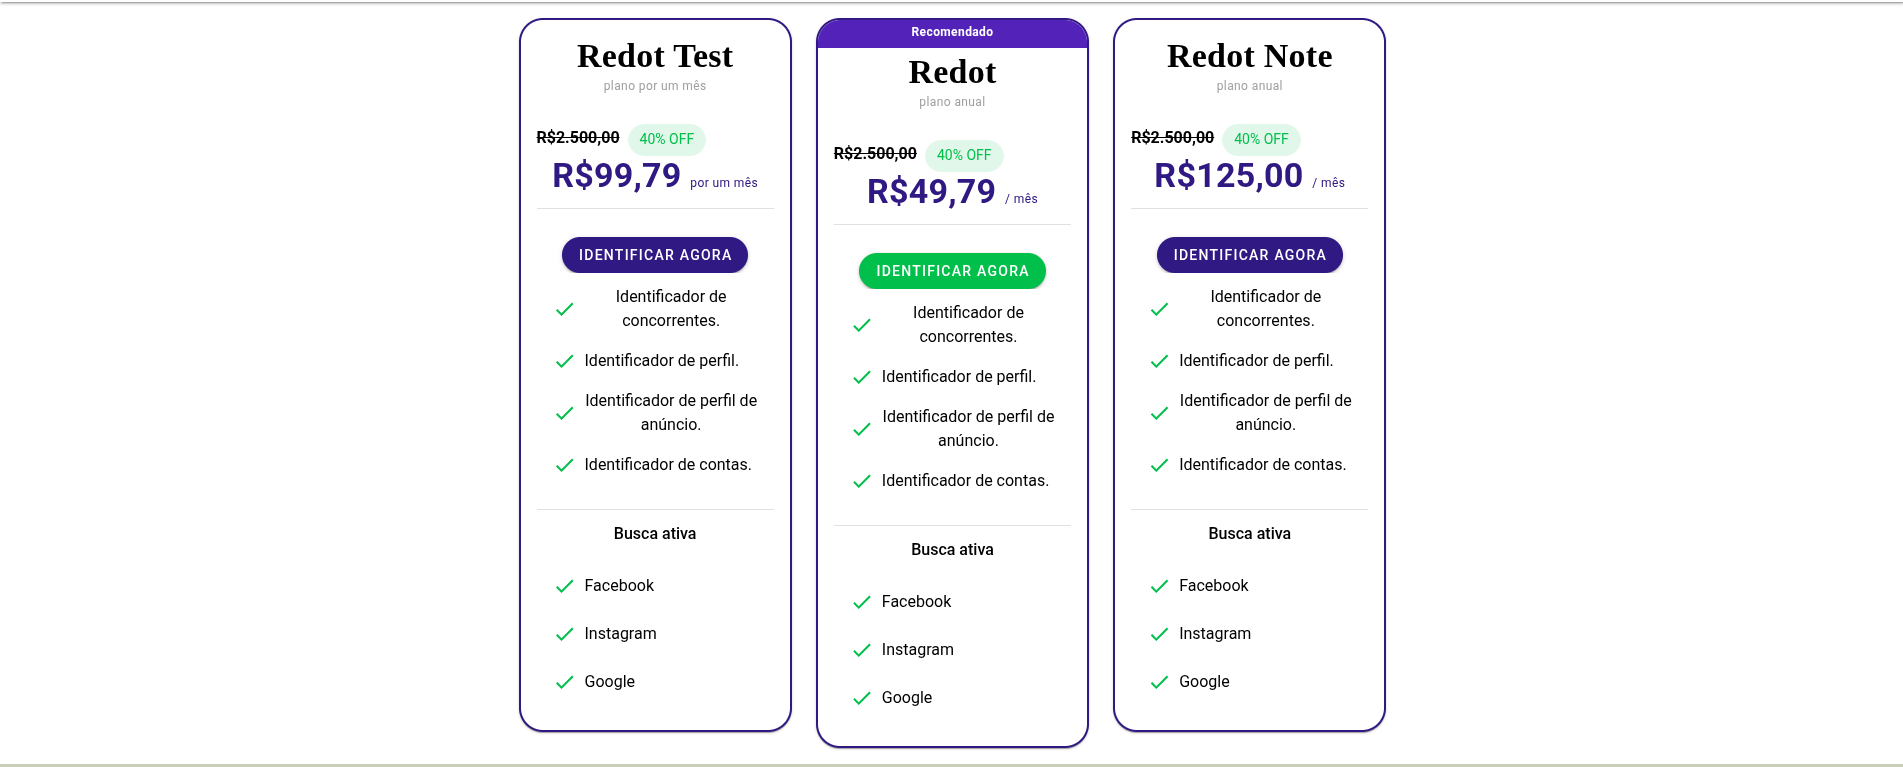
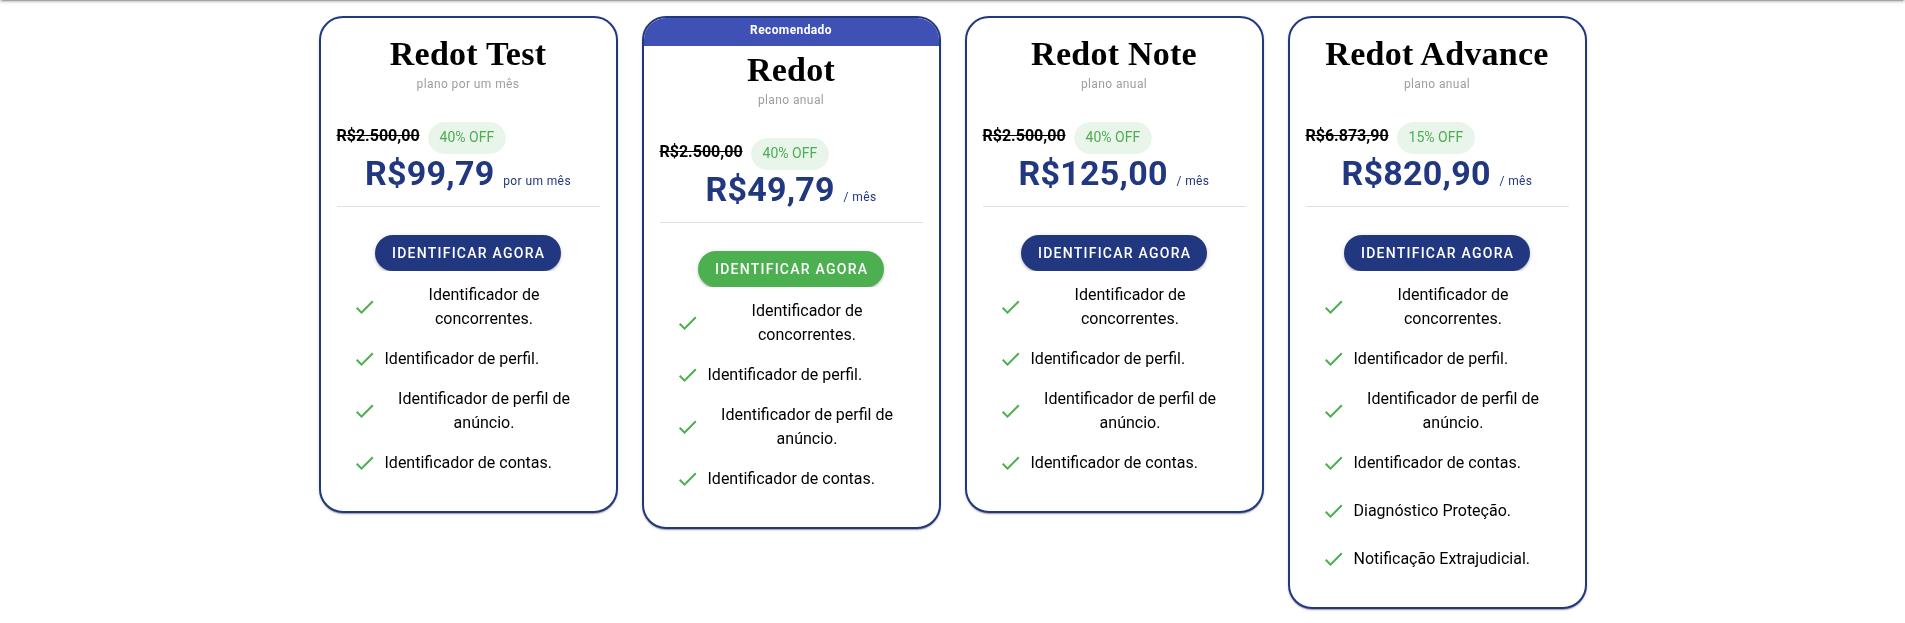
Incrementando landing-page

diff --git a/frontend/src/pages/index.vue b/frontend/src/pages/index.vue
@@ -121,20 +121,142 @@
         </v-container>
       </v-lazy>
 
-      <v-lazy>
-      <v-container fluid class="py-16 d-flex flex-column align-center justify-center text-center" style="background-color: #213880">
-          <h1 class="mb-6 text-white text-center">
-            Para quem é o Redot?
-          </h1>
-          <v-row>
-            <col>
-              <v-card>
-                <v-icon></v-icon>
+      <v-lazy class="bg-white">
+        <v-container fluid class="py-16">
+          <v-row align="center" justify="center"> 
+            <v-col cols="12" md="6" class="text-left pa-6"> 
+              <div>
+                <img :src="redot_sem_texto" alt="Logo" class="w-40 mb-4"><br></br>
+                <a style="color: #213880;" class="text-h3">
+                  Comece agora a<br>
+                  identificar quem<br>
+                  está te copiando
+                </a>
+              </div>
+            </v-col>
+
+            <v-col cols="12" md="4" class="pa-6"> 
+              <v-card class="pa-4 text-center rounded-xl bg-white text-black" style="border: 2px solid #213880;">
+                <v-sheet
+                  color="indigo darken-1"
+                  height="32"
+                  class="d-flex align-center justify-center rounded-t-lg ma-n5"
+                >
+                  <span class="white--text font-weight-bold text-caption">Recomendado</span>
+                </v-sheet>
+
+                <div class="mt-6 text-h4 font-weight-bold fonte-personalizada">Redot</div>
+                <div class="text-caption text-grey">plano anual</div>
+
+                <div class="d-flex align-center mt-6">
+                  <div class="text-h8 text-decoration-line-through font-weight-bold text-left mr-2">R$2.500,00</div>
+                  <v-chip color="green" text-color="white" small class="mt-1">40% OFF</v-chip>
+                </div>
+
+                <div class="text-h4 font-weight-bold color-padrao">R$49,79 <span class="text-caption">/ mês</span></div>
+                
+                <v-divider class="my-3"></v-divider>
+
+                <v-btn color="green" class="mt-4 rounded-pill" @click="comecar">Identificar agora</v-btn>
+
+                <v-list dense class="bg-white">
+                  <v-list-item>
+                    <v-list-item-content class="d-flex align-center">
+                      <v-icon color="success" class="mr-2">mdi-check</v-icon>
+                      <span>Identificador de concorrentes.</span>
+                    </v-list-item-content>
+                  </v-list-item>
+
+                  <v-list-item>
+                    <v-list-item-content class="d-flex align-center">
+                      <v-icon color="success" class="mr-2">mdi-check</v-icon>
+                      <span>Identificador de perfil.</span>
+                    </v-list-item-content>
+                  </v-list-item>
+
+                  <v-list-item>
+                    <v-list-item-content class="d-flex align-center">
+                      <v-icon color="success" class="mr-2">mdi-check</v-icon>
+                      <span>Identificador de perfil de anúncio.</span>
+                    </v-list-item-content>
+                  </v-list-item>
+
+                  <v-list-item>
+                    <v-list-item-content class="d-flex align-center">
+                      <v-icon color="success" class="mr-2">mdi-check</v-icon>
+                      <span>Identificador de contas.</span>
+                    </v-list-item-content>
+                  </v-list-item>
+                </v-list>
               </v-card>
-            </col>
+            </v-col>
           </v-row>
         </v-container>
       </v-lazy>
+
+      <v-lazy>
+        <v-container fluid class="py-16 d-flex flex-column align-center justify-center text-center" style="background-color: #213880">
+            <h1 class="mb-6 text-white">
+              Vai deixar seu concorrente reinar ou identificar?
+            </h1>
+          </v-container>
+        </v-lazy>
+
+      <v-lazy class="bg-grey">
+        <v-container fluid class="py-16 d-flex flex-column align-center justify-center text-center">
+          <h1 class="mb-6 text-white text-center">Veja quem usou nossa solução</h1>
+          <v-row class="d-flex justify-space-around"> 
+
+            <v-col cols="12" md="5" class="px-4"> 
+              <v-card class="bg-white rounded-lg pa-6" height="100%"> 
+                <h1 class="my-4 text-red">CHARME KIDS - Moda infatil</h1> 
+                <h3 class="text-grey">Os resultados foram bastantes satisfatórios, descobri várias<br></br>
+                empresas usando o nome da minha marca sem minha devida permissão</h3>
+              </v-card>
+            </v-col>
+
+            <v-col cols="12" md="5" class="px-4">
+              <v-card class="bg-white rounded-lg pa-6" height="100%">
+                <h1 class="my-4 text-red">Tomás Menezes</h1>
+                <h3 class="text-grey">A experiência foi imediata e<br></br>incrível, com o Redot consegui descobrir vários<br></br>
+                  concorrentes que estavam usando minha marca</h3>
+              </v-card>
+            </v-col>
+          </v-row>
+        </v-container>
+      </v-lazy>
+
+      <v-lazy>
+      <v-container fluid class="py-16 d-flex flex-column align-center justify-center text-center" style="background-color: #213880">
+        <h1 class="mb-6 text-white text-center">Para quem é o Redot?</h1>
+        <v-row class="d-flex justify-space-around"> 
+
+          <v-col cols="12" md="3" class="px-4"> 
+            <v-card class="bg-white rounded-lg pa-6" height="100%"> 
+              <v-icon size="48" color="black" class="mt-4">mdi-account-supervisor</v-icon>
+              <h1 class="my-4 text-red">Influenciadores</h1> 
+              <h3>Ajuda na busca de quem pode estar te copiando</h3>
+            </v-card>
+          </v-col>
+
+          <v-col cols="12" md="3" class="px-4">
+            <v-card class="bg-white rounded-lg pa-6" height="100%">
+              <v-icon size="48" color="black" class="mt-4">mdi-factory</v-icon>
+              <h1 class="my-4 text-red">Indústria</h1>
+              <h3>Identifica informações falsas ou perfis piratas</h3>
+            </v-card>
+          </v-col>
+
+          <v-col cols="12" md="3" class="px-4">
+            <v-card class="bg-white rounded-lg pa-6" height="100%">
+              <v-icon size="48" color="black" class="mt-4">mdi-store</v-icon>
+              <h1 class="my-4 text-red">Comércio</h1>
+              <h3>Localize concorrentes utilizando seu nome</h3>
+            </v-card>
+          </v-col>
+        </v-row>
+      </v-container>
+    </v-lazy>
 
       <div class="d-flex ga-3">
         <img :src="planos" alt="logo" class="logo_footer"></img>
@@ -182,5 +304,4 @@ const duvidas = async () => {
 .logo_sem_texto {
   max-width: 60px;
 }
-
 </style>

diff --git a/frontend/src/pages/planos/index.vue b/frontend/src/pages/planos/index.vue
@@ -2,7 +2,7 @@
   <div class="bg-white h-100">
     <v-responsive
       class="align-centerfill-height mx-auto "
-      max-width="1000"
+      max-width="1300"
     >
       <PlanosPagamentos />
     </v-responsive>
